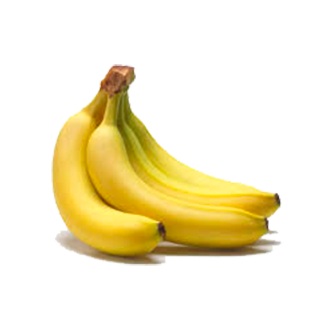
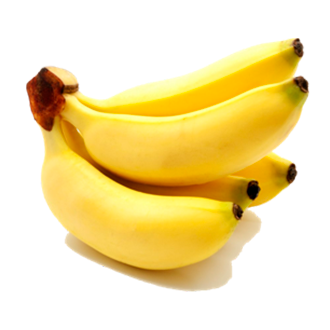
change images

diff --git a/index.html b/index.html
@@ -557,7 +557,7 @@
                                         <div class="contain-product deal-layout contain-product__deal-layout">
                                             <div class="product-thumb">
                                                 <a href="#" class="link-to-product">
-                                                    <img src="assets/images/home-03/product_deal-09_330x330.jpg" alt="dd" width="330" height="330" class="product-thumnail">
+                                                    <img src="assets/images/home-03/zuquini_amarillo.png" alt="dd" width="330" height="330" class="product-thumnail">
                                                 </a>
                                                 <div class="labels">
                                                     <span class="sale-label">-10%</span>
@@ -590,7 +590,7 @@
                                         <div class="contain-product deal-layout contain-product__deal-layout">
                                             <div class="product-thumb">
                                                 <a href="#" class="link-to-product">
-                                                    <img src="assets/images/home-03/product_deal-09_330x330.jpg" alt="dd" width="330" height="330" class="product-thumnail">
+                                                    <img src="assets/images/home-03/limon_tahiti_pequeno.png" alt="dd" width="330" height="330" class="product-thumnail">
                                                 </a>
                                                 <div class="labels">
                                                     <span class="sale-label">-10%</span>
@@ -623,7 +623,7 @@
                                         <div class="contain-product deal-layout contain-product__deal-layout">
                                             <div class="product-thumb">
                                                 <a href="#" class="link-to-product">
-                                                    <img src="assets/images/home-03/product_deal-09_330x330.jpg" alt="dd" width="330" height="330" class="product-thumnail">
+                                                    <img src="assets/images/home-03/limon_tahiti_grande.png" alt="dd" width="330" height="330" class="product-thumnail">
                                                 </a>
                                                 <div class="labels">
                                                     <span class="sale-label">-10%</span>
@@ -656,7 +656,7 @@
                                         <div class="contain-product deal-layout contain-product__deal-layout">
                                             <div class="product-thumb">
                                                 <a href="#" class="link-to-product">
-                                                    <img src="assets/images/home-03/product_deal-09_330x330.jpg" alt="dd" width="330" height="330" class="product-thumnail">
+                                                    <img src="assets/images/home-03/remolacha.png" alt="dd" width="330" height="330" class="product-thumnail">
                                                 </a>
                                                 <div class="labels">
                                                     <span class="sale-label">-10%</span>
@@ -689,7 +689,7 @@
                                         <div class="contain-product deal-layout contain-product__deal-layout">
                                             <div class="product-thumb">
                                                 <a href="#" class="link-to-product">
-                                                    <img src="assets/images/home-03/product_deal-09_330x330.jpg" alt="dd" width="330" height="330" class="product-thumnail">
+                                                    <img src="assets/images/home-03/platano_maduro.png" alt="dd" width="330" height="330" class="product-thumnail">
                                                 </a>
                                                 <div class="labels">
                                                     <span class="sale-label">-10%</span>
@@ -722,7 +722,7 @@
                                         <div class="contain-product deal-layout contain-product__deal-layout">
                                             <div class="product-thumb">
                                                 <a href="#" class="link-to-product">
-                                                    <img src="assets/images/home-03/product_deal-09_330x330.jpg" alt="dd" width="330" height="330" class="product-thumnail">
+                                                    <img src="assets/images/home-03/platano_verde.png" alt="dd" width="330" height="330" class="product-thumnail">
                                                 </a>
                                                 <div class="labels">
                                                     <span class="sale-label">-10%</span>
@@ -750,12 +750,12 @@
                                             </div>
                                         </div>
                                     </li>
-                                    <! – 19. Lechiga Batavia — >
+                                    <! – 19. Lechuga Batavia — >
                                     <li class="product-item">
                                         <div class="contain-product deal-layout contain-product__deal-layout">
                                             <div class="product-thumb">
                                                 <a href="#" class="link-to-product">
-                                                    <img src="assets/images/home-03/product_deal-09_330x330.jpg" alt="dd" width="330" height="330" class="product-thumnail">
+                                                    <img src="assets/images/home-03/lechuga_batavia.png" alt="dd" width="330" height="330" class="product-thumnail">
                                                 </a>
                                                 <div class="labels">
                                                     <span class="sale-label">-10%</span>
@@ -788,7 +788,7 @@
                                         <div class="contain-product deal-layout contain-product__deal-layout">
                                             <div class="product-thumb">
                                                 <a href="#" class="link-to-product">
-                                                    <img src="assets/images/home-03/product_deal-09_330x330.jpg" alt="dd" width="330" height="330" class="product-thumnail">
+                                                    <img src="assets/images/home-03/arracacha.png" alt="dd" width="330" height="330" class="product-thumnail">
                                                 </a>
                                                 <div class="labels">
                                                     <span class="sale-label">-10%</span>
@@ -821,7 +821,7 @@
                                         <div class="contain-product deal-layout contain-product__deal-layout">
                                             <div class="product-thumb">
                                                 <a href="#" class="link-to-product">
-                                                    <img src="assets/images/home-03/product_deal-09_330x330.jpg" alt="dd" width="330" height="330" class="product-thumnail">
+                                                    <img src="assets/images/home-03/mango_tommy_biche.png" alt="dd" width="330" height="330" class="product-thumnail">
                                                 </a>
                                                 <div class="labels">
                                                     <span class="sale-label">-10%</span>
@@ -854,7 +854,7 @@
                                         <div class="contain-product deal-layout contain-product__deal-layout">
                                             <div class="product-thumb">
                                                 <a href="#" class="link-to-product">
-                                                    <img src="assets/images/home-03/product_deal-09_330x330.jpg" alt="dd" width="330" height="330" class="product-thumnail">
+                                                    <img src="assets/images/home-03/mango_tommy_maduro.png" alt="dd" width="330" height="330" class="product-thumnail">
                                                 </a>
                                                 <div class="labels">
                                                     <span class="sale-label">-10%</span>
@@ -887,7 +887,7 @@
                                         <div class="contain-product deal-layout contain-product__deal-layout">
                                             <div class="product-thumb">
                                                 <a href="#" class="link-to-product">
-                                                    <img src="assets/images/home-03/product_deal-09_330x330.jpg" alt="dd" width="330" height="330" class="product-thumnail">
+                                                    <img src="assets/images/home-03/mango_tommy_pinton.png" alt="dd" width="330" height="330" class="product-thumnail">
                                                 </a>
                                                 <div class="labels">
                                                     <span class="sale-label">-10%</span>
@@ -920,7 +920,7 @@
                                         <div class="contain-product deal-layout contain-product__deal-layout">
                                             <div class="product-thumb">
                                                 <a href="#" class="link-to-product">
-                                                    <img src="assets/images/home-03/product_deal-09_330x330.jpg" alt="dd" width="330" height="330" class="product-thumnail">
+                                                    <img src="assets/images/home-03/papa_sabanera_pequena.png" alt="dd" width="330" height="330" class="product-thumnail">
                                                 </a>
                                                 <div class="labels">
                                                     <span class="sale-label">-10%</span>
@@ -953,7 +953,7 @@
                                         <div class="contain-product deal-layout contain-product__deal-layout">
                                             <div class="product-thumb">
                                                 <a href="#" class="link-to-product">
-                                                    <img src="assets/images/home-03/product_deal-09_330x330.jpg" alt="dd" width="330" height="330" class="product-thumnail">
+                                                    <img src="assets/images/home-03/tomate_chonto_grande.png" alt="dd" width="330" height="330" class="product-thumnail">
                                                 </a>
                                                 <div class="labels">
                                                     <span class="sale-label">-10%</span>
@@ -986,7 +986,7 @@
                                         <div class="contain-product deal-layout contain-product__deal-layout">
                                             <div class="product-thumb">
                                                 <a href="#" class="link-to-product">
-                                                    <img src="assets/images/home-03/product_deal-09_330x330.jpg" alt="dd" width="330" height="330" class="product-thumnail">
+                                                    <img src="assets/images/home-03/cebolla_cabezona_blanca_pequena.png" alt="dd" width="330" height="330" class="product-thumnail">
                                                 </a>
                                                 <div class="labels">
                                                     <span class="sale-label">-10%</span>
@@ -1019,7 +1019,7 @@
                                         <div class="contain-product deal-layout contain-product__deal-layout">
                                             <div class="product-thumb">
                                                 <a href="#" class="link-to-product">
-                                                    <img src="assets/images/home-03/product_deal-09_330x330.jpg" alt="dd" width="330" height="330" class="product-thumnail">
+                                                    <img src="assets/images/home-03/pepino_guiso.png" alt="dd" width="330" height="330" class="product-thumnail">
                                                 </a>
                                                 <div class="labels">
                                                     <span class="sale-label">-10%</span>
@@ -1052,7 +1052,7 @@
                                         <div class="contain-product deal-layout contain-product__deal-layout">
                                             <div class="product-thumb">
                                                 <a href="#" class="link-to-product">
-                                                    <img src="assets/images/home-03/product_deal-09_330x330.jpg" alt="dd" width="330" height="330" class="product-thumnail">
+                                                    <img src="assets/images/home-03/habichuela.png" alt="dd" width="330" height="330" class="product-thumnail">
                                                 </a>
                                                 <div class="labels">
                                                     <span class="sale-label">-10%</span>
@@ -1085,7 +1085,7 @@
                                         <div class="contain-product deal-layout contain-product__deal-layout">
                                             <div class="product-thumb">
                                                 <a href="#" class="link-to-product">
-                                                    <img src="assets/images/home-03/product_deal-09_330x330.jpg" alt="dd" width="330" height="330" class="product-thumnail">
+                                                    <img src="assets/images/home-03/banano_criollo_maduro.png" alt="dd" width="330" height="330" class="product-thumnail">
                                                 </a>
                                                 <div class="labels">
                                                     <span class="sale-label">-10%</span>
@@ -1118,7 +1118,7 @@
                                         <div class="contain-product deal-layout contain-product__deal-layout">
                                             <div class="product-thumb">
                                                 <a href="#" class="link-to-product">
-                                                    <img src="assets/images/home-03/product_deal-09_330x330.jpg" alt="dd" width="330" height="330" class="product-thumnail">
+                                                    <img src="assets/images/home-03/banano_criollo_pinton.png" alt="dd" width="330" height="330" class="product-thumnail">
                                                 </a>
                                                 <div class="labels">
                                                     <span class="sale-label">-10%</span>
@@ -1151,7 +1151,7 @@
                                         <div class="contain-product deal-layout contain-product__deal-layout">
                                             <div class="product-thumb">
                                                 <a href="#" class="link-to-product">
-                                                    <img src="assets/images/home-03/product_deal-09_330x330.jpg" alt="dd" width="330" height="330" class="product-thumnail">
+                                                    <img src="assets/images/home-03/naranja_tangelo.png" alt="dd" width="330" height="330" class="product-thumnail">
                                                 </a>
                                                 <div class="labels">
                                                     <span class="sale-label">-10%</span>
@@ -1184,7 +1184,7 @@
                                         <div class="contain-product deal-layout contain-product__deal-layout">
                                             <div class="product-thumb">
                                                 <a href="#" class="link-to-product">
-                                                    <img src="assets/images/home-03/product_deal-09_330x330.jpg" alt="dd" width="330" height="330" class="product-thumnail">
+                                                    <img src="assets/images/home-03/pepino_cohombro.png" alt="dd" width="330" height="330" class="product-thumnail">
                                                 </a>
                                                 <div class="labels">
                                                     <span class="sale-label">-10%</span>
@@ -1217,7 +1217,7 @@
                                         <div class="contain-product deal-layout contain-product__deal-layout">
                                             <div class="product-thumb">
                                                 <a href="#" class="link-to-product">
-                                                    <img src="assets/images/home-03/product_deal-09_330x330.jpg" alt="dd" width="330" height="330" class="product-thumnail">
+                                                    <img src="assets/images/home-03/maracuya_madura.png" alt="dd" width="330" height="330" class="product-thumnail">
                                                 </a>
                                                 <div class="labels">
                                                     <span class="sale-label">-10%</span>
@@ -1250,7 +1250,7 @@
                                         <div class="contain-product deal-layout contain-product__deal-layout">
                                             <div class="product-thumb">
                                                 <a href="#" class="link-to-product">
-                                                    <img src="assets/images/home-03/product_deal-09_330x330.jpg" alt="dd" width="330" height="330" class="product-thumnail">
+                                                    <img src="assets/images/home-03/maracuya_pinton.png" alt="dd" width="330" height="330" class="product-thumnail">
                                                 </a>
                                                 <div class="labels">
                                                     <span class="sale-label">-10%</span>
@@ -1283,7 +1283,7 @@
                                         <div class="contain-product deal-layout contain-product__deal-layout">
                                             <div class="product-thumb">
                                                 <a href="#" class="link-to-product">
-                                                    <img src="assets/images/home-03/product_deal-09_330x330.jpg" alt="dd" width="330" height="330" class="product-thumnail">
+                                                    <img src="assets/images/home-03/curuba_madura.png" alt="dd" width="330" height="330" class="product-thumnail">
                                                 </a>
                                                 <div class="labels">
                                                     <span class="sale-label">-10%</span>
@@ -1316,7 +1316,7 @@
                                         <div class="contain-product deal-layout contain-product__deal-layout">
                                             <div class="product-thumb">
                                                 <a href="#" class="link-to-product">
-                                                    <img src="assets/images/home-03/product_deal-09_330x330.jpg" alt="dd" width="330" height="330" class="product-thumnail">
+                                                    <img src="assets/images/home-03/curuba_pinton.png" alt="dd" width="330" height="330" class="product-thumnail">
                                                 </a>
                                                 <div class="labels">
                                                     <span class="sale-label">-10%</span>
@@ -1349,7 +1349,7 @@
                                         <div class="contain-product deal-layout contain-product__deal-layout">
                                             <div class="product-thumb">
                                                 <a href="#" class="link-to-product">
-                                                    <img src="assets/images/home-03/product_deal-09_330x330.jpg" alt="dd" width="330" height="330" class="product-thumnail">
+                                                    <img src="assets/images/home-03/papa_criolla_grande.png" alt="dd" width="330" height="330" class="product-thumnail">
                                                 </a>
                                                 <div class="labels">
                                                     <span class="sale-label">-10%</span>
@@ -1382,7 +1382,7 @@
                                         <div class="contain-product deal-layout contain-product__deal-layout">
                                             <div class="product-thumb">
                                                 <a href="#" class="link-to-product">
-                                                    <img src="assets/images/home-03/product_deal-09_330x330.jpg" alt="dd" width="330" height="330" class="product-thumnail">
+                                                    <img src="assets/images/home-03/cebolla_cabezona_blanca_grande.png" alt="dd" width="330" height="330" class="product-thumnail">
                                                 </a>
                                                 <div class="labels">
                                                     <span class="sale-label">-10%</span>
@@ -1415,7 +1415,7 @@
                                         <div class="contain-product deal-layout contain-product__deal-layout">
                                             <div class="product-thumb">
                                                 <a href="#" class="link-to-product">
-                                                    <img src="assets/images/home-03/product_deal-09_330x330.jpg" alt="dd" width="330" height="330" class="product-thumnail">
+                                                    <img src="assets/images/home-03/banano_bocadillo_maduro.png" alt="dd" width="330" height="330" class="product-thumnail">
                                                 </a>
                                                 <div class="labels">
                                                     <span class="sale-label">-10%</span>
@@ -1448,7 +1448,7 @@
                                         <div class="contain-product deal-layout contain-product__deal-layout">
                                             <div class="product-thumb">
                                                 <a href="#" class="link-to-product">
-                                                    <img src="assets/images/home-03/product_deal-09_330x330.jpg" alt="dd" width="330" height="330" class="product-thumnail">
+                                                    <img src="assets/images/home-03/banano_bocadillo_pinton.png" alt="dd" width="330" height="330" class="product-thumnail">
                                                 </a>
                                                 <div class="labels">
                                                     <span class="sale-label">-10%</span>
